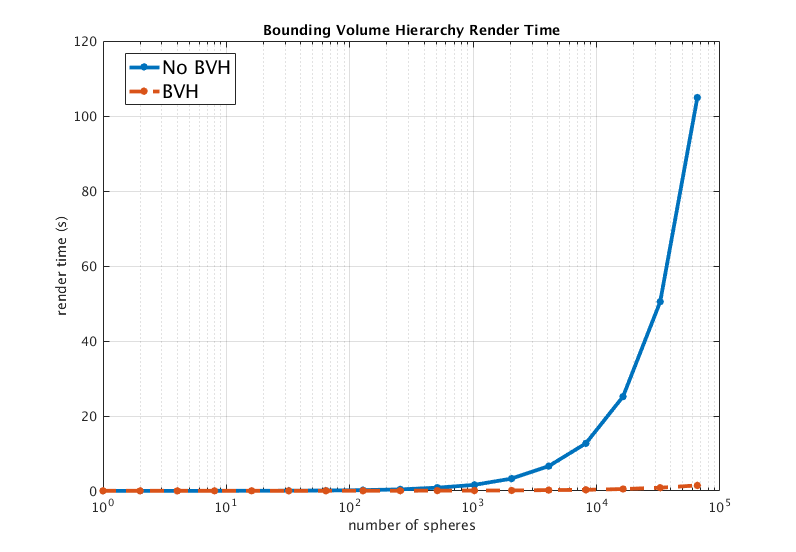
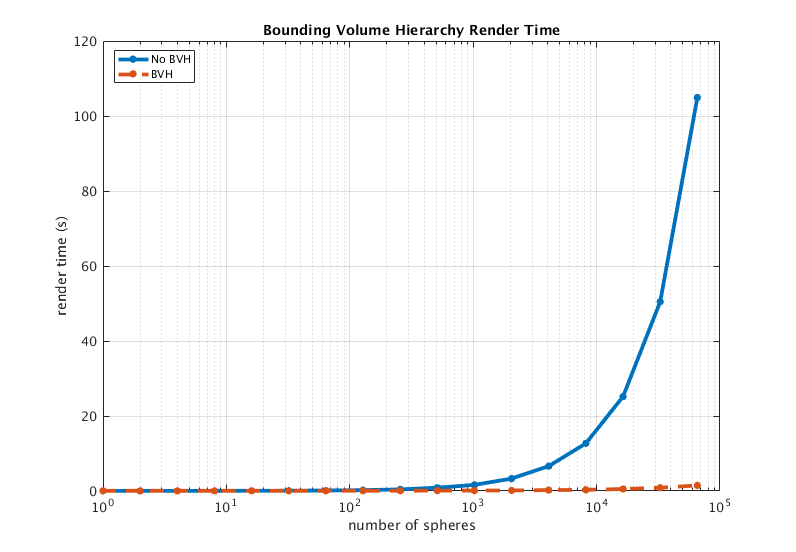
updated README

Changed region(s): [[0.1508, 0.0924, 0.3015, 0.1848]]

diff --git a/README.md b/README.md
@@ -54,10 +54,12 @@ Orthographic image
 
 ![Orthographic Image](images/orthographic.png)
 
-Bounding Volume Hierarchy test with 2^18 spheres
+## Bounding Volume Hierarchy
 
-![BVH Image](images/bvh.png)
-
-Bounding Volume Hierarchy scalability
+Scenes with many objects can be accelerated with a BVH
 
 ![BVH Scalability](images/bvh_chart.png)
+
+Test with 2^18 spheres
+
+![BVH Image](images/bvh.png)
